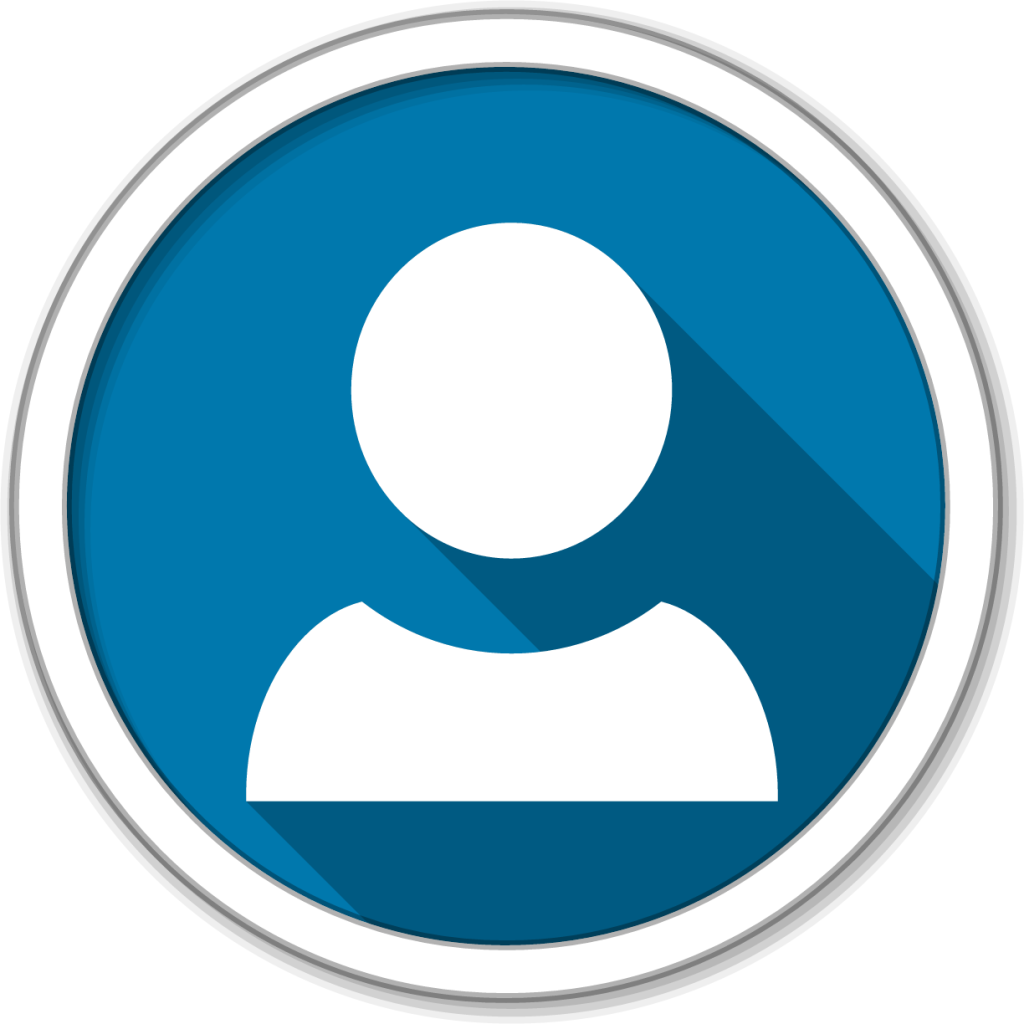
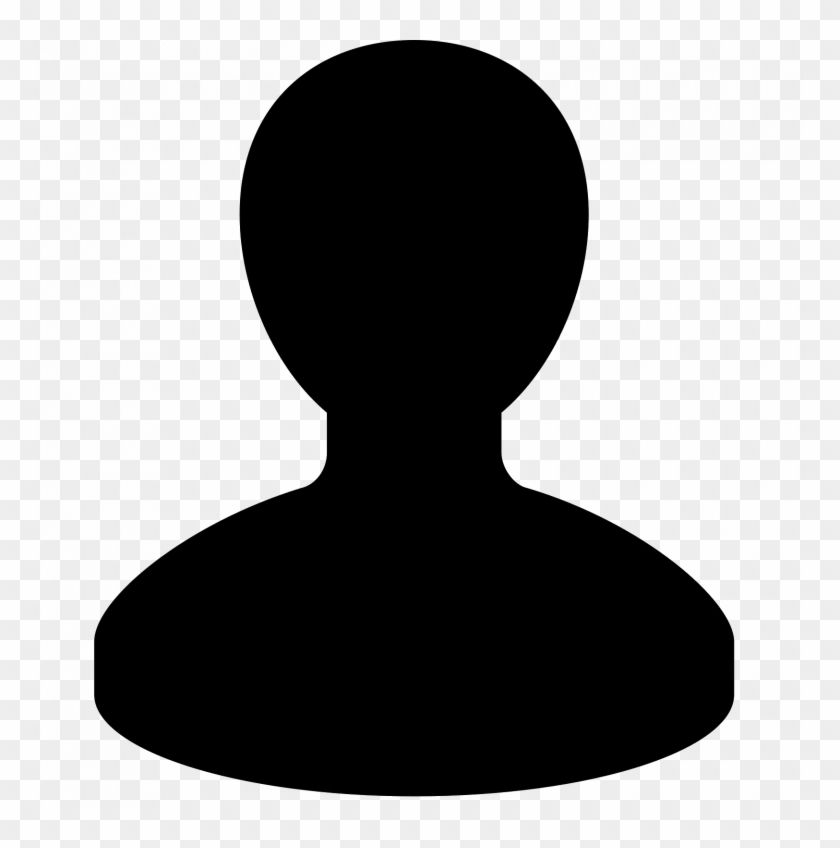
feat: update recommendation labels and scores in ranking output, enhance UI components with new styles

diff --git a/src/frontend/src/components/CandidateCard.tsx b/src/frontend/src/components/CandidateCard.tsx
@@ -1,4 +1,7 @@
+// src/components/CandidateCard.tsx
 import React from 'react';
+import '../index.css';
+import silhouette from '../assets/user-icon.png';  // silhouette placeholder asset
 
 interface CandidateCardProps {
   name: string;
@@ -7,18 +10,50 @@ interface CandidateCardProps {
   recommendation_label?: string;
 }
 
-export const CandidateCard: React.FC<CandidateCardProps> = ({ name, title, score, recommendation_label }) => (
-  <div className="bg-white border border-gray-200 rounded-lg p-6 flex space-x-4">
-    <div className="w-24 h-24 bg-gray-200 rounded" />
-    <div className="flex-1">
-      <h3 className="text-lg font-bold">{name}</h3>
-      <p className="text-gray-600">{title}</p>
-      <p className="mt-2 font-semibold">Score: {score}</p>
-      {recommendation_label && (
-        <span className="inline-block mt-2 bg-gray-100 text-gray-800 text-xs font-medium px-2 py-1 rounded">
-          {recommendation_label}
-        </span>
-      )}
+export const CandidateCard: React.FC<CandidateCardProps> = ({
+  name,
+  title,
+  score,
+  recommendation_label,
+}) => {
+  // Determine badge color based on score tiers
+  const getBadgeStyle = () => {
+    if (score >= 90) {
+      return { backgroundColor: 'var(--color-jade-green)', color: '#ffffff' };
+    } else if (score >= 80) {
+      return { backgroundColor: 'var(--color-sapphire)', color: '#ffffff' };
+    } else if (score >= 60) {
+      return { backgroundColor: 'var(--color-amethyst-purple)', color: '#ffffff' };
+    } else {
+      return { backgroundColor: 'var(--color-flamingo)', color: '#ffffff' };
+    }
+  };
+
+  return (
+    <div className="bg-white border border-medium rounded-2xl p-6 flex space-x-6 shadow-sm">
+      {/* Profile silhouette */}
+      <div className="w-24 h-24 bg-light-gray rounded-full flex items-center justify-center">
+        <img
+          src={silhouette}
+          alt="Profile placeholder"
+          className="w-12 h-12 text-secondary"
+        />
+      </div>
+
+      {/* Candidate details */}
+      <div className="flex-1">
+        <h3 className="text-lg font-bold text-primary">{name}</h3>
+        <p className="text-secondary">{title}</p>
+        <p className="mt-2 font-semibold text-primary">Score: {score}</p>
+        {recommendation_label && (
+          <span
+            className="inline-block mt-3 px-3 py-1 text-xs rounded-full font-semibold"
+            style={getBadgeStyle()}
+          >
+            {recommendation_label}
+          </span>
+        )}
+      </div>
     </div>
-  </div>
-);
+  );
+};

diff --git a/src/frontend/src/index.css b/src/frontend/src/index.css
@@ -2,21 +2,51 @@
 @tailwind components;
 @tailwind utilities;
 
-/* global resets & Inter font */
-@layer base {
-  body {
-    background-color: #F5F7FA;
-    color: #333333;
-    font-family: 'Inter', sans-serif;
-    margin: 0;
-    padding: 0;
-  }
+:root {
+  --color-black: #232323ff;
+  --color-light-gray: #edf1f3;
+  --color-medium-gray: #d9dfe1ff;
+
+  --color-flamingo: #f2617aff;
+  --color-dark-blue: #003d4f;
+  --color-sapphire: #47a1ad;
+  --color-amethyst-purple: #634F7D;
+  --color-jade-green: #6B9E78;
+  --color-turmeric-yellow: #CC850A;
+  --color-dark-gray: #666666ff;
+
+  --color-sapphire-light: #47a1ad80;
+
+  --standard-left-padding: 1.5em;
+  --font-weight-semi-bold: 630;
 }
 
-/* two-column layout: 1fr on mobile, 30%/70% on md+ */
-@layer components {
-  .app-container {
-    @apply mx-auto min-h-screen p-8 grid grid-cols-1 md:[grid-template-columns:30%_70%] gap-8;
-    max-width: 1440px;
-  }
+.bg-light-gray { background-color: var(--color-light-gray); }
+.bg-dark-blue  { background-color: var(--color-dark-blue); }
+.text-primary  { color: var(--color-dark-blue); }
+.text-secondary{ color: var(--color-dark-gray); }
+
+.btn-primary {
+  background-color: var(--color-dark-blue);
+  color: #fff;
+}
+.btn-primary:hover {
+  background-color: var(--color-sapphire);
+}
+.text-primary {
+  color: var(--color-dark-blue);
+}
+.text-secondary {
+  color: var(--color-dark-gray);
+}
+.border-medium {
+  border-color: var(--color-medium-gray);
+}
+.bg-light-gray {
+  background-color: var(--color-light-gray);
+}
+.badge {
+  background-color: var(--color-sapphire-light);
+  color: var(--color-sapphire);
+  font-weight: var(--font-weight-semi-bold);
 }

diff --git a/src/frontend/src/components/ResumeUploader.tsx b/src/frontend/src/components/ResumeUploader.tsx
@@ -1,4 +1,5 @@
 import React, { useState } from 'react';
+import '../index.css';
 
 interface ResumeUploaderProps {
   onSubmit: (text: string) => void;
@@ -14,20 +15,21 @@ export const ResumeUploader: React.FC<ResumeUploaderProps> = ({ onSubmit, isLoad
   };
 
   return (
-    <section className="w-full bg-white py-10 border-t border-b border-gray-100">
+    <section className="w-full bg-white py-10 border-t border-b border-medium">
       <div className="max-w-3xl mx-auto px-4">
         <form className="flex flex-col space-y-4" onSubmit={handleSubmit}>
           <textarea
-            className="w-full p-4 text-sm border border-gray-300 rounded-md focus:ring-2 focus:ring-blue-500 focus:border-transparent min-h-[200px]"
+            className="w-full p-4 text-sm border border-medium rounded-md focus:outline-none focus:ring-2 focus:ring-sapphire focus:border-transparent min-h-[200px]"
             placeholder="Paste job description here..."
             value={resumeText}
             onChange={(e) => setResumeText(e.target.value)}
             disabled={isLoading}
           />
+
           <button
             type="submit"
-            className={`px-6 py-2 bg-black text-white text-sm rounded transition-colors ${
-              isLoading ? 'opacity-50 cursor-not-allowed' : 'hover:bg-gray-900'
+            className={`btn-primary px-6 py-2 text-sm rounded transition-colors ${
+              isLoading ? 'opacity-50 cursor-not-allowed' : ''
             }`}
             disabled={isLoading}
           >

diff --git a/src/frontend/src/components/Header.tsx b/src/frontend/src/components/Header.tsx
@@ -1,12 +1,22 @@
 import React from 'react';
+import '../index.css';
+import twLogo from '../assets/thoughtworks.png';  // ← your ThoughtWorks logo asset
 
 export const Header: React.FC = () => (
-  <header className="bg-white py-8">
-    <div className="max-w-5xl mx-auto px-4">
-      <div className="text-xl font-bold">ASAP - AST</div>
-      <div className="mt-8 text-center">
-        <h1 className="text-3xl font-bold">What would you like to do today?</h1>
-        <p className="mt-2 text-gray-600">
+  <header>
+    {/* Top nav bar */}
+    <div className="bg-dark-blue h-16 flex items-center px-4">
+      <img src={twLogo} alt="Thoughtworks" className="h-8 w-auto mr-3" />
+      <span className="mx-2 text-white">|</span>
+      <span className="text-white font-semibold text-lg">ASAP - AST</span>
+    </div>
+    {/* Hero section */}
+    <div className="bg-light-gray py-12">
+      <div className="max-w-5xl mx-auto px-4 text-center">
+        <h1 className="text-3xl font-bold text-primary">
+          What would you like to do today?
+        </h1>
+        <p className="mt-2 text-secondary">
           ASAP – AST is your intelligent AI assistant that helps you rank resumes efficiently.
         </p>
       </div>

diff --git a/src/frontend/src/components/CandidateList.tsx b/src/frontend/src/components/CandidateList.tsx
@@ -1,5 +1,7 @@
+// src/components/CandidateList.tsx
 import React from 'react';
 import { CandidateCard } from './CandidateCard';
+import '../index.css';
 
 export interface Candidate {
   name: string;
@@ -13,16 +15,16 @@ interface CandidateListProps {
 }
 
 export const CandidateList: React.FC<CandidateListProps> = ({ candidates }) => (
-  <section className="bg-white py-12">
+  <section className="bg-white py-12 border-t border-b border-medium">
     <div className="max-w-5xl mx-auto px-4">
       <div className="text-center mb-10">
-        <h2 className="text-3xl font-bold">Results</h2>
-        <p className="text-gray-600 mt-2">
+        <h2 className="text-3xl font-bold text-primary">Results</h2>
+        <p className="text-secondary mt-2">
           Here are the candidates ranked based on the resumes you submitted.
         </p>
       </div>
       <div className="grid grid-cols-1 md:grid-cols-2 gap-6">
-        {candidates.map((candidate) => (
+        {candidates.map(candidate => (
           <CandidateCard
             key={candidate.name}
             name={candidate.name}

diff --git a/src/frontend/src/components/Footer.tsx b/src/frontend/src/components/Footer.tsx
@@ -1,12 +1,17 @@
 import React from 'react';
+import '../index.css';
 
 export const Footer: React.FC = () => (
-  <footer className="bg-white py-6">
-    <div className="max-w-5xl mx-auto px-4 flex justify-between text-gray-600 text-sm">
+  <footer className="bg-light-gray border-t border-medium py-6">
+    <div className="max-w-5xl mx-auto px-4 flex flex-col md:flex-row items-center justify-between text-secondary text-sm">
       <span>© 2025 ASAP – AST</span>
-      <div className="space-x-4">
-        <a href="#" className="hover:underline">Privacy Policy</a>
-        <a href="#" className="hover:underline">Terms of Service</a>
+      <div className="mt-3 md:mt-0 space-x-4">
+        <a href="#" className="hover:text-sapphire">
+          Privacy Policy
+        </a>
+        <a href="#" className="hover:text-sapphire">
+          Terms of Service
+        </a>
       </div>
     </div>
   </footer>

diff --git a/src/backend/resume_parser/ranking/ranker.py b/src/backend/resume_parser/ranking/ranker.py
@@ -8,7 +8,7 @@ def get_recommendation_label(score: int) -> str:
         return "Highly Recommended"
     elif score >= 80:
         return "Well-Suited for the Role"
-    elif score >= 70:
+    elif score >= 60:
         return "Good Potential"
     else:
         return "May Require Further Evaluation"
